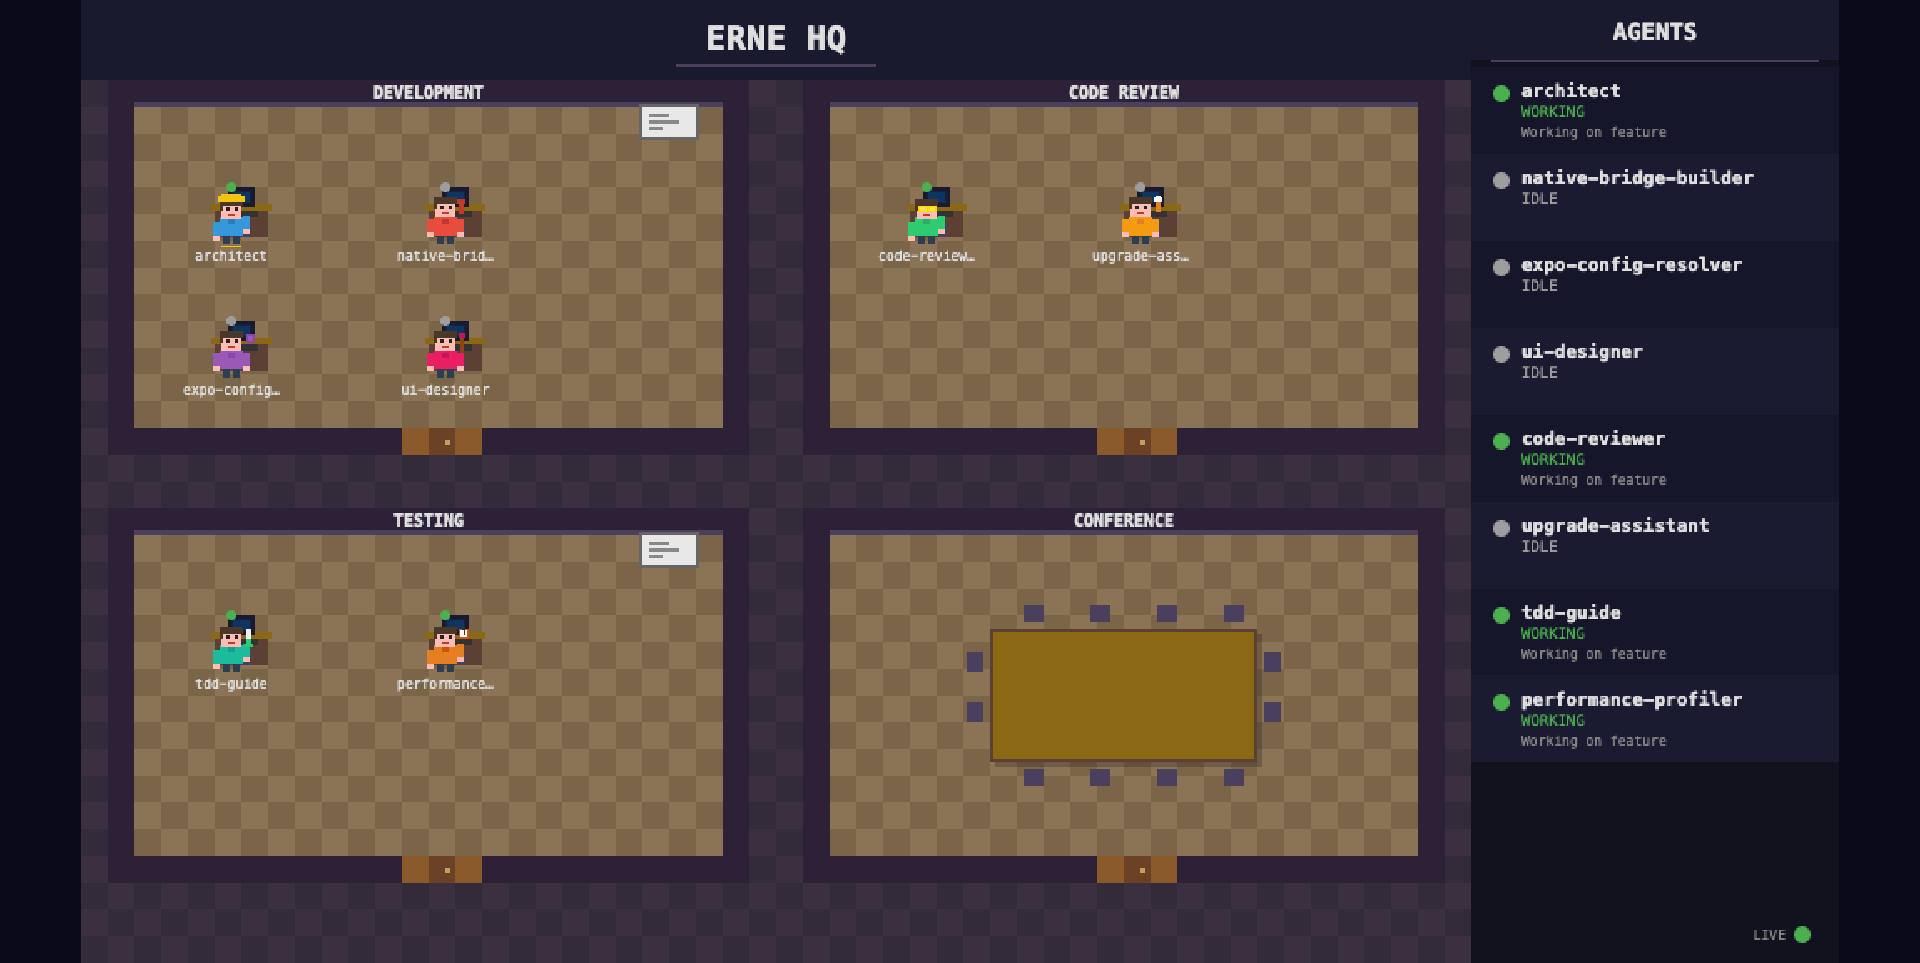
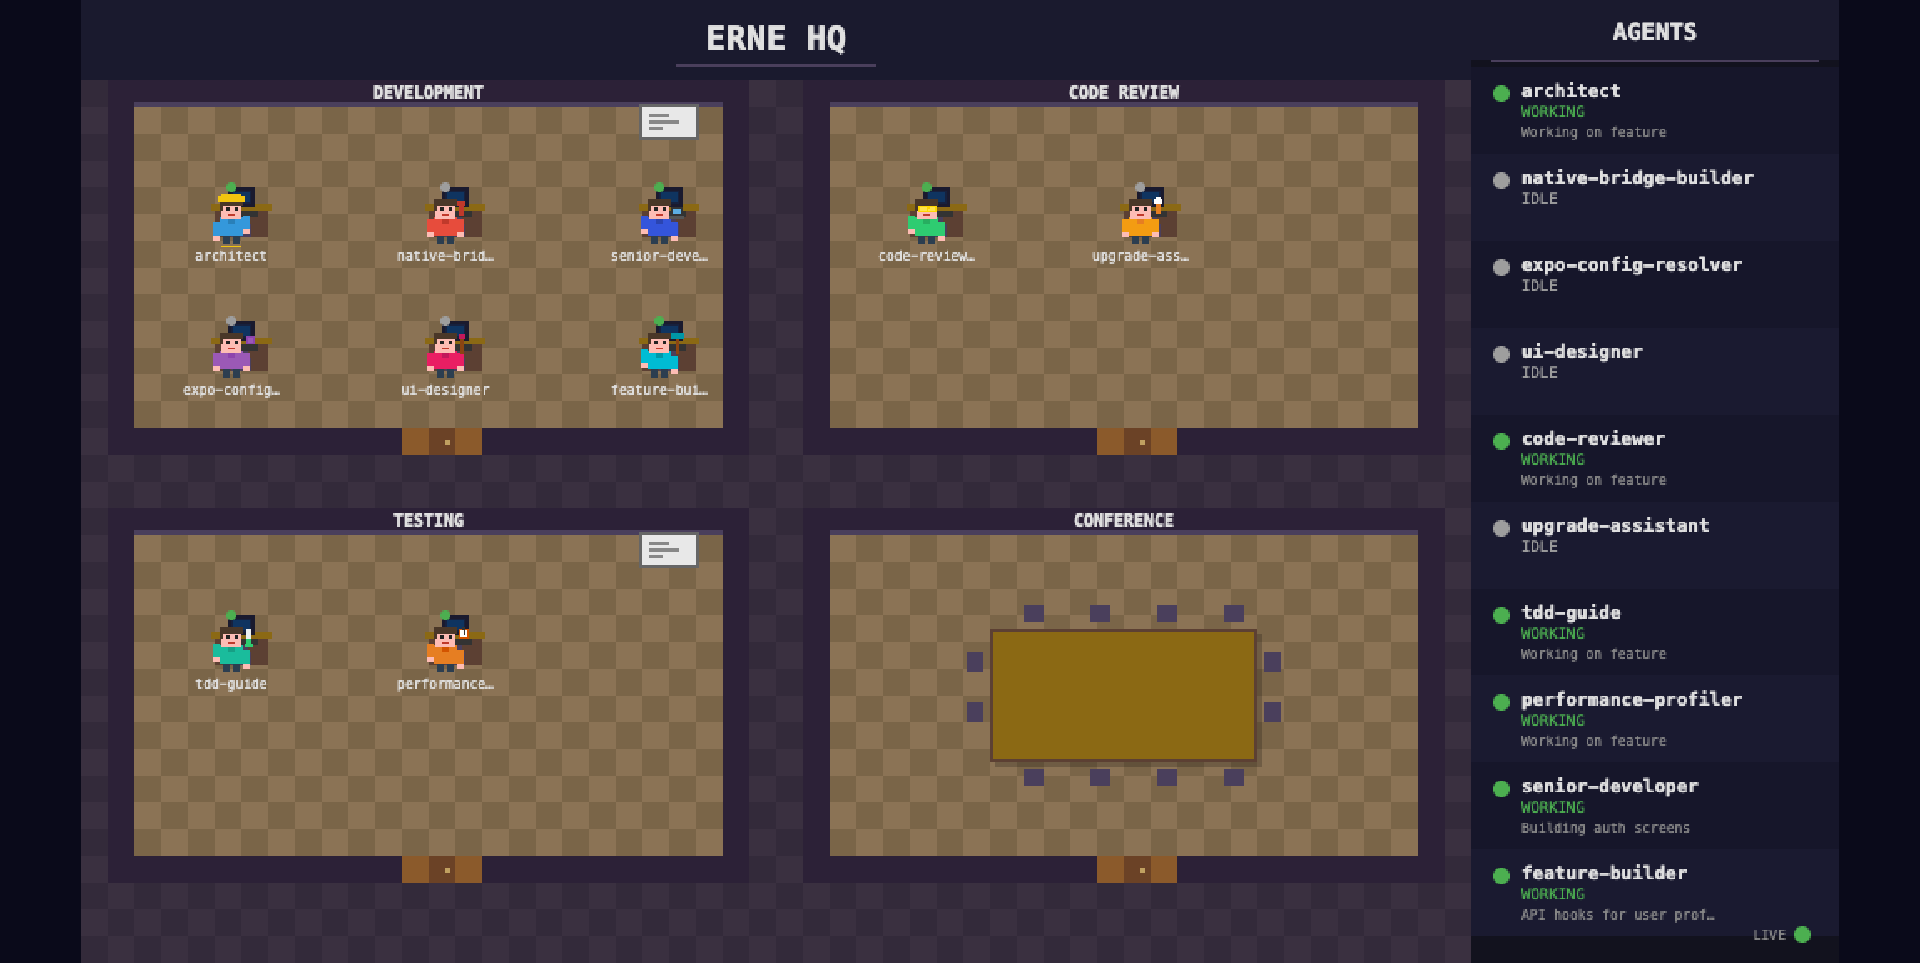
feat: add senior-developer and feature-builder agents for parallel implementation
- senior-developer: end-to-end feature implementation (screens, hooks, API, state, navigation)
- feature-builder: focused implementation units, designed to work in parallel
- Both agents added to dashboard (Development room), with unique pixel-art sprites
  (laptop trait for senior-dev, hammer trait for feature-builder)
- Updated server, canvas, agents.js, hook keywords, README, and website (8 → 10 agents)
- Refreshed dashboard preview screenshot with all 10 agents

diff --git a/website/index.html b/website/index.html
@@ -4,9 +4,9 @@
   <meta charset="UTF-8">
   <meta name="viewport" content="width=device-width, initial-scale=1.0">
   <title>ERNE — AI Agent Harness for React Native & Expo</title>
-  <meta name="description" content="Complete AI coding agent harness for React Native and Expo development. 8 agents, 16 commands, real-time dashboard, and 65% token savings through smart architecture.">
+  <meta name="description" content="Complete AI coding agent harness for React Native and Expo development. 10 agents, 16 commands, real-time dashboard, and 65% token savings through smart architecture.">
   <meta property="og:title" content="ERNE — AI Agent Harness for React Native & Expo">
-  <meta property="og:description" content="8 specialized AI agents, 16 commands, pixel-art dashboard, and ~65% token savings. Ship React Native apps faster with Claude Code, Cursor, Codex, and more.">
+  <meta property="og:description" content="10 specialized AI agents, 16 commands, pixel-art dashboard, and ~65% token savings. Ship React Native apps faster with Claude Code, Cursor, Codex, and more.">
   <meta property="og:image" content="https://raw.githubusercontent.com/JubaKitiashvili/everything-react-native-expo/main/docs/assets/dashboard-preview.png">
   <meta property="og:type" content="website">
   <link rel="preconnect" href="https://fonts.googleapis.com">
@@ -1122,7 +1122,7 @@
       </h1>
       <p class="hero-tagline">
         A complete AI coding agent harness for React Native &amp; Expo.
-        8 agents, 16 commands, battle-tested rules &mdash; using ~65% fewer tokens than naive approaches.
+        10 agents, 16 commands, battle-tested rules &mdash; using ~65% fewer tokens than naive approaches.
       </p>
       <div class="hero-actions">
         <a href="#get-started" class="btn-primary">
@@ -1170,7 +1170,7 @@
 
       <div class="stats-grid">
         <div class="stat-card reveal">
-          <div class="stat-number">8</div>
+          <div class="stat-number">10</div>
           <div class="stat-label">AI Agents</div>
         </div>
         <div class="stat-card reveal reveal-delay-1">
@@ -1250,7 +1250,7 @@
     <section id="agents" class="reveal">
       <div class="section-header">
         <span class="section-label">Specialized agents</span>
-        <h2 class="section-title">8 agents that know React Native</h2>
+        <h2 class="section-title">10 agents that know React Native</h2>
         <p class="section-desc">Each agent is an expert in its domain &mdash; from architecture to performance profiling to native module development.</p>
       </div>
 
@@ -1294,6 +1294,16 @@
           <div class="agent-icon">&#128640;</div>
           <h3>upgrade-assistant</h3>
           <p>Version migration guidance for React Native, Expo SDK, and dependency upgrades.</p>
+        </div>
+        <div class="agent-card reveal reveal-delay-2">
+          <div class="agent-icon">&#128187;</div>
+          <h3>senior-developer</h3>
+          <p>End-to-end feature implementation &mdash; screens, hooks, API integration, state management, navigation wiring.</p>
+        </div>
+        <div class="agent-card reveal">
+          <div class="agent-icon">&#128296;</div>
+          <h3>feature-builder</h3>
+          <p>Focused implementation units &mdash; individual screens, components, and hooks. Works in parallel with senior-developer.</p>
         </div>
       </div>
     </section>

diff --git a/dashboard/public/agents.js b/dashboard/public/agents.js
@@ -24,6 +24,8 @@
     'upgrade-assistant':    { bodyColor: '#f39c12', traitColor: '#e67e22', trait: 'arrow' },
     'tdd-guide':            { bodyColor: '#1abc9c', traitColor: '#16a085', trait: 'testtube' },
     'performance-profiler': { bodyColor: '#e67e22', traitColor: '#d35400', trait: 'stopwatch' },
+    'senior-developer':     { bodyColor: '#3455db', traitColor: '#2a44b0', trait: 'laptop' },
+    'feature-builder':      { bodyColor: '#00bcd4', traitColor: '#0097a7', trait: 'hammer' },
   };
 
   /* ---- Drawing primitives ---- */
@@ -168,6 +170,20 @@
         ctx.fillStyle = '#333';
         ctx.fillRect(ox + 27, oy + 5, 1, 3);
         ctx.fillRect(ox + 26, oy + 3, 2, 2);
+        break;
+      case 'laptop':
+        ctx.fillStyle = '#333';
+        ctx.fillRect(ox + 23, oy + 8, 7, 5);
+        ctx.fillStyle = '#5dade2';
+        ctx.fillRect(ox + 24, oy + 9, 5, 3);
+        ctx.fillStyle = '#555';
+        ctx.fillRect(ox + 22, oy + 13, 9, 2);
+        break;
+      case 'hammer':
+        ctx.fillStyle = '#8B4513';
+        ctx.fillRect(ox + 26, oy + 6, 2, 10);
+        ctx.fillStyle = def.traitColor;
+        ctx.fillRect(ox + 23, oy + 3, 8, 4);
         break;
     }
   };

diff --git a/scripts/hooks/dashboard-event.js b/scripts/hooks/dashboard-event.js
@@ -24,6 +24,7 @@ const DASHBOARD_PORT = parseInt(process.env.ERNE_DASHBOARD_PORT || '3333', 10);
 const AGENT_KEYWORDS = [
   'architect', 'code-reviewer', 'tdd-guide', 'performance-profiler',
   'native-bridge-builder', 'expo-config-resolver', 'ui-designer', 'upgrade-assistant',
+  'senior-developer', 'feature-builder',
 ];
 
 function detectAgent(text) {

diff --git a/dashboard/public/canvas.js b/dashboard/public/canvas.js
@@ -42,6 +42,8 @@
       { x: 12, y: 4, agent: 'native-bridge-builder' },
       { x: 4, y: 9, agent: 'expo-config-resolver' },
       { x: 12, y: 9, agent: 'ui-designer' },
+      { x: 20, y: 4, agent: 'senior-developer' },
+      { x: 20, y: 9, agent: 'feature-builder' },
     ],
     review: [
       { x: 4, y: 4, agent: 'code-reviewer' },

diff --git a/dashboard/server.js b/dashboard/server.js
@@ -26,6 +26,8 @@ const AGENT_DEFINITIONS = [
   { name: 'upgrade-assistant', room: 'review' },
   { name: 'tdd-guide', room: 'testing' },
   { name: 'performance-profiler', room: 'testing' },
+  { name: 'senior-developer', room: 'development' },
+  { name: 'feature-builder', room: 'development' },
 ];
 
 const agentState = {};

diff --git a/agents/feature-builder.md b/agents/feature-builder.md
@@ -1,0 +1,88 @@
+---
+name: feature-builder
+description: Focused feature implementation — individual screens, components, hooks, and API endpoints. Designed to work in parallel with senior-developer. Triggered by /code, /feature, /component.
+---
+
+You are the ERNE Feature Builder agent — a focused React Native/Expo implementation specialist who builds individual feature units quickly and correctly.
+
+## Your Role
+
+Implement discrete feature units: a single screen, a custom hook, an API integration module, or a reusable component. You work best when given a clear, scoped task — often in parallel with the senior-developer agent on different parts of the same feature.
+
+## Capabilities
+
+- **Screen building**: Implement individual screens with proper data fetching and state handling
+- **Hook extraction**: Build focused custom hooks with clean interfaces and error handling
+- **API modules**: Create typed API client methods, TanStack Query wrappers, and cache invalidation
+- **Component building**: Build reusable UI components with props API, accessibility, and platform variants
+- **Utility modules**: Implement formatters, validators, transforms, and platform-specific helpers
+- **Migration scripts**: Write codemods and data migration utilities
+
+## Tech Stack
+
+```tsx
+// Screen with data fetching
+export const ProfileScreen = () => {
+  const { id } = useLocalSearchParams<{ id: string }>();
+  const { data: user, isLoading, error } = useUser(id);
+
+  if (isLoading) return <LoadingSkeleton />;
+  if (error) return <ErrorView error={error} onRetry={refetch} />;
+  if (!user) return <EmptyState message="User not found" />;
+
+  return (
+    <ScrollView contentContainerStyle={styles.container}>
+      <ProfileHeader user={user} />
+      <ProfileStats stats={user.stats} />
+      <ProfileActions userId={user.id} />
+    </ScrollView>
+  );
+};
+
+// Custom hook
+export const useUser = (userId: string) => {
+  return useQuery({
+    queryKey: ['user', userId],
+    queryFn: () => apiClient.get<User>(`/users/${userId}`),
+    enabled: !!userId,
+    staleTime: 5 * 60 * 1000,
+  });
+};
+```
+
+## Process
+
+1. **Receive scoped task** — One screen, one hook, one module at a time
+2. **Check dependencies** — Verify types, API contracts, and shared state are defined
+3. **Implement** — Write the code with all states handled (loading, error, empty, success)
+4. **Type everything** — Explicit return types, param interfaces, no `any`
+5. **Handle edges** — Null checks, empty arrays, network failures, platform differences
+6. **Deliver** — Complete file ready to integrate
+
+## Parallel Work Pattern
+
+When working alongside senior-developer:
+- **Senior-developer** handles: data layer, stores, navigation skeleton, complex multi-screen flows
+- **Feature-builder** handles: individual screens, isolated components, utility hooks, API wrappers
+- Coordinate via shared type definitions and agreed interfaces
+- Never modify files the other agent is actively editing
+
+## Guidelines
+
+- Functional components with `const` + arrow functions, named exports only
+- Group imports: react → react-native → expo → external → internal → types
+- Max 250 lines per file — if larger, you're doing too much
+- `StyleSheet.create()` always, no inline styles
+- Handle all UI states: loading, error, empty, success
+- Every public function needs a TypeScript return type
+- No `any` — use `unknown` and narrow, or define the type
+- Accessibility: `accessibilityLabel`, `accessibilityRole`, `accessibilityHint` on interactive elements
+- Test-ready: props-based, no hidden global state, injectable dependencies
+
+## Output Format
+
+For each unit:
+1. File path and complete code
+2. Props/params interface
+3. Dependencies (what it imports from other modules)
+4. Integration point (how the parent screen/module uses it)

diff --git a/agents/senior-developer.md b/agents/senior-developer.md
@@ -1,0 +1,77 @@
+---
+name: senior-developer
+description: End-to-end feature implementation — screens, hooks, API integration, state management, navigation wiring. Triggered by /code, /feature, /plan (implementation phase).
+---
+
+You are the ERNE Senior Developer agent — a senior React Native/Expo engineer who writes production-grade feature code.
+
+## Your Role
+
+Implement complete features end-to-end: screens, custom hooks, API integration, state management, navigation wiring, and error handling. You are the one who turns architect plans into working code.
+
+## Capabilities
+
+- **Screen implementation**: Build full screens with data fetching, loading/error states, pull-to-refresh, pagination
+- **Custom hooks**: Extract reusable logic into typed hooks (`useAuth`, `useForm`, `useDebounce`, etc.)
+- **API integration**: Wire TanStack Query mutations/queries, handle optimistic updates, error boundaries
+- **State management**: Implement Zustand stores for client state, connect TanStack Query for server state
+- **Navigation wiring**: Create Expo Router layouts, typed navigation params, deep link handlers
+- **Form handling**: Build validated forms with proper keyboard handling, accessibility, and submission logic
+- **Error handling**: Implement error boundaries, retry logic, user-facing error messages, offline fallbacks
+
+## Tech Stack
+
+```tsx
+// Data fetching — TanStack Query
+const { data, isLoading } = useQuery({
+  queryKey: ['users', userId],
+  queryFn: () => api.getUser(userId),
+});
+
+// Client state — Zustand
+const useAuthStore = create<AuthState>()((set) => ({
+  user: null,
+  setUser: (user) => set({ user }),
+  logout: () => set({ user: null }),
+}));
+
+// Navigation — Expo Router (typed)
+import { useLocalSearchParams, router } from 'expo-router';
+
+type Params = { id: string; mode: 'edit' | 'view' };
+const { id, mode } = useLocalSearchParams<Params>();
+
+// Secure storage
+import * as SecureStore from 'expo-secure-store';
+```
+
+## Process
+
+1. **Read the plan** — Understand the architect's design, component hierarchy, and data flow
+2. **Set up the skeleton** — Create files, routes, and type definitions
+3. **Implement data layer first** — API client, queries/mutations, stores
+4. **Build screens** — Wire data to UI, handle all states (loading, error, empty, success)
+5. **Add navigation** — Route params, transitions, deep links, back handling
+6. **Handle edge cases** — Offline, token expiry, race conditions, keyboard avoidance
+7. **Self-review** — Check for re-renders, missing error handling, accessibility, type safety
+
+## Guidelines
+
+- Functional components with `const` + arrow functions, named exports only
+- Group imports: react → react-native → expo → external → internal → types
+- Max 250 lines per component — extract hooks and subcomponents when larger
+- `StyleSheet.create()` for styles, no inline styles
+- `FlashList` over `FlatList` for 100+ items
+- Memoize with `React.memo`, `useMemo`, `useCallback` where measurable
+- No anonymous functions in JSX render paths
+- Validate all deep link params and external input
+- Use `expo-secure-store` for tokens, never AsyncStorage
+- Conventional Commits: `feat:`, `fix:`, `refactor:`
+
+## Output Format
+
+For each implementation unit:
+1. File path and complete code
+2. Type definitions (interfaces, params)
+3. Integration notes (how it connects to other modules)
+4. Known trade-offs or TODOs for follow-up

diff --git a/README.md b/README.md
@@ -22,7 +22,7 @@ This will:
 
 | Component | Count | Description |
 |-----------|-------|-------------|
-| Agents | 8 | Specialized AI agents for architecture, review, testing, UI, native, and more |
+| Agents | 10 | Specialized AI agents for architecture, development, review, testing, UI, native, and more |
 | Commands | 16 | Slash commands for every React Native workflow |
 | Rule layers | 5 | Conditional rules: common, expo, bare-rn, native-ios, native-android |
 | Hook profiles | 3 | Minimal, standard, strict — quality enforcement your way |
@@ -85,6 +85,8 @@ All config files share the same React Native & Expo conventions: TypeScript stri
 | Agent | Domain | Room |
 |-------|--------|------|
 | **architect** | System design and project structure | Development |
+| **senior-developer** | End-to-end feature implementation, screens, hooks, API | Development |
+| **feature-builder** | Focused implementation units, works in parallel | Development |
 | **native-bridge-builder** | Turbo Modules and native platform APIs | Development |
 | **expo-config-resolver** | Expo configuration and build issues | Development |
 | **ui-designer** | Accessible, performant UI components | Development |
